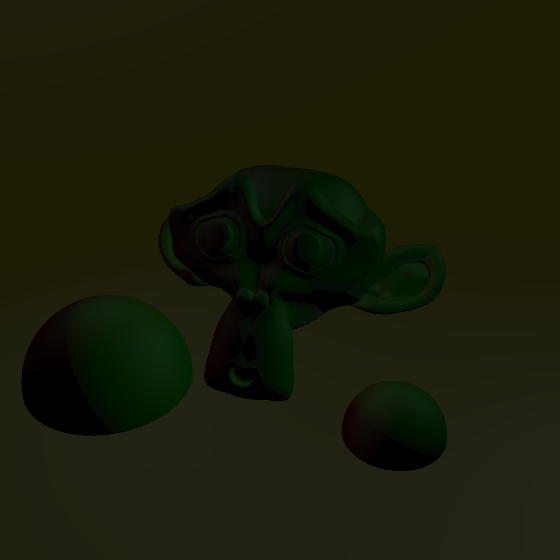
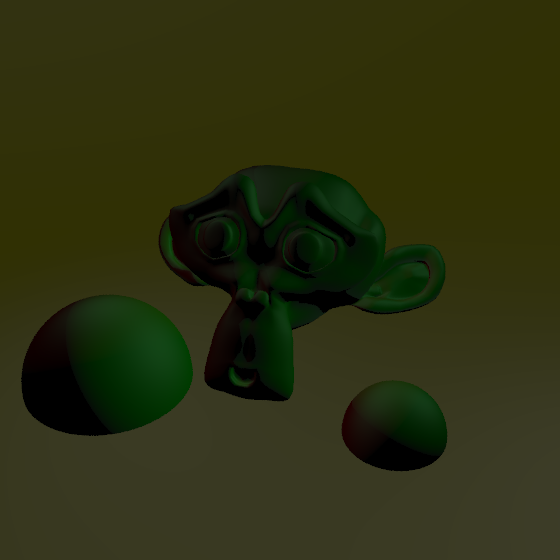
cleaning up stuff for submission... hopefully i can recover data from bricked macbook air for global illumination

Changed region(s): [[0.2125, 0.5464, 0.3643, 0.6982], [0.9107, 0.7893, 1.0, 1.0]]

diff --git a/src/ray/renderer/PhongShader.java b/src/ray/renderer/PhongShader.java
@@ -57,16 +57,13 @@ public class PhongShader implements Renderer {
 					// add diffuse
 					iRec.surface.getMaterial().getBRDF(iRec)
 							.evaluate(iRec.frame, L, R, diffuse);
-					diffuse.scale(1 / Math.PI);
 					diffuse.scale(L.dot(N));
 					diffuse.scale(pl.diffuse);
-					// diffuse.scale(0.1);
 					outColor.add(diffuse);
 
 					// add specular
 					iRec.surface.getMaterial().getBRDF(iRec)
 							.evaluate(iRec.frame, L, R, specular);
-					specular.scale(1 / Math.PI);
 					specular.scale(Math.pow(R.dot(V), phongCoeff));
 					specular.scale(pl.specular);
 					outColor.add(specular);
